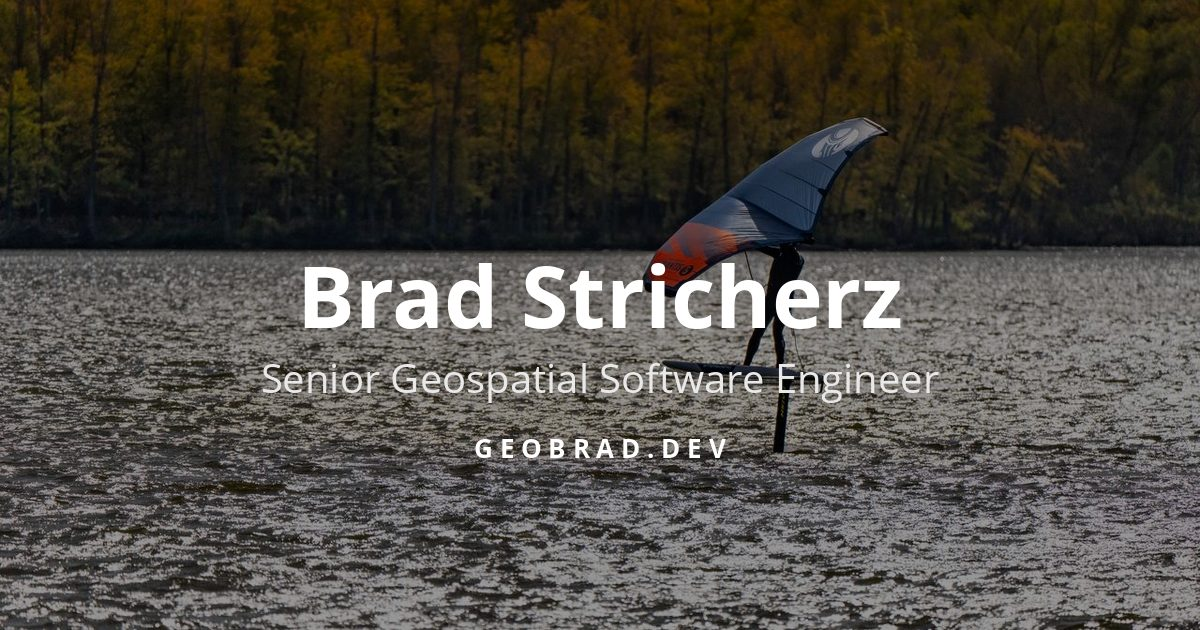
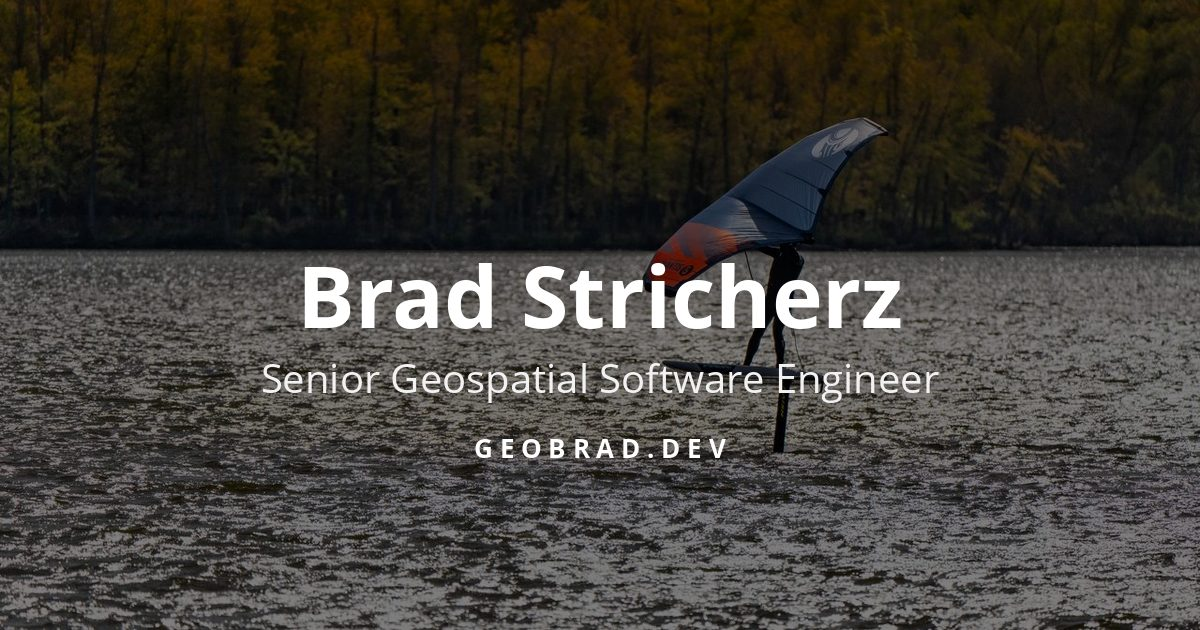
fix: lift hero subtitle and photo credit contrast over the photo (issue 34)
The scrim goes from 0.4 to 0.5, the subtitle from #bfbfbf to #f2f2f2, and
the credit becomes #fff on its own rgba(0, 0, 0, 0.55) backing with an
underlined link and no paragraph margin. Against a white photo pixel, the
worst case any photo can hold, the subtitle is 3.53:1 (needs 3:1) and the
credit 11.37:1 (needs 4.5:1). The share card mirrors the new scrim and
subtitle fill: img/og-card.jpg written: 1200x630, 161.4 KB.

Claude-Session: https://claude.ai/code/session_01AELE7hM1gFfPKqT9ASV4ck

diff --git a/css/style.css b/css/style.css
@@ -759,7 +759,7 @@ Home
    The prefixed -webkit-image-set() form is deliberately not used. It cannot express
    a format fallback, so Safari 6 to 13, which support the prefixed function but not
    WebP, would resolve it to a file they cannot decode and paint no hero at all,
-   only the 40 percent scrim from .home-1:after. Serving those browsers a slightly
+   only the 50 percent scrim from .home-1:after. Serving those browsers a slightly
    soft 1280 JPEG is the better failure.
 
    Variants are keyed to viewport width, not device pixel ratio. A 3x phone is still
@@ -782,6 +782,10 @@ Home
     }
 }
 
+/* The scrim is load-bearing for the hero text, not only mood. The subtitle and the
+   photo credit are held to their WCAG thresholds against a white photo pixel under
+   this layer, and tools/verify_seo_a11y.py computes that from the alpha here, so
+   lightening it fails the gate. tools/make_og_card.py mirrors the same alpha. */
 .home-1:after {
     content: "";
     position: absolute;
@@ -789,7 +793,7 @@ Home
     height: 100%;
     top: 0;
     left: 0;
-    background-color: rgba(0, 0, 0, 0.4);
+    background-color: rgba(0, 0, 0, 0.5);
     z-index: 0;
 }
 
@@ -863,7 +867,7 @@ Home
 #home .typer-title {
     margin: 10px 0;
     font-size: 22px;
-    color: #bfbfbf;
+    color: #f2f2f2;
     text-transform: uppercase;
 }
 
@@ -1775,14 +1779,29 @@ Footer
     pointer-events: auto;
 }
 
+/* The credit carries its own backing because it is normal-size text on the photo,
+   and the scrim alone cannot lift it to 4.5:1 over a bright pixel. Only the top
+   corners round: the box sits flush on the hero's bottom edge. */
 #credit {
     position: absolute;
     bottom: 0;
     right: 10px;
     font-size: 16px;
-    font-weight: 1000;
-    color: #070606;
+    color: #fff;
+    background: rgba(0, 0, 0, 0.55);
+    padding: 2px 8px;
+    border-radius: 3px 3px 0 0;
     z-index: 10;
+}
+
+/* Without this the global paragraph margin hangs dead dark space under the line. */
+#credit p {
+    margin: 0;
+}
+
+/* The link shares the credit's color, so the underline is what tells it apart. */
+#credit a {
+    text-decoration: underline;
 }
 
 /*----------------------------------------

diff --git a/tools/make_og_card.py b/tools/make_og_card.py
@@ -10,7 +10,7 @@ by hand to regenerate a committed asset. Neither is part of the gate, and
 neither runs on the deployed site.
 
 The card is the hero photo the homepage already serves, cropped to the 1.91:1
-that every unfurler expects, under the same rgba(0, 0, 0, 0.4) scrim that
+that every unfurler expects, under the same rgba(0, 0, 0, 0.5) scrim that
 css/style.css paints over the hero in .home-1:after, with the same two lines
 of copy the hero carries. A shared link then previews as the top of the site
 rather than as something assembled separately that can drift away from it.
@@ -33,7 +33,7 @@ SOURCE = ROOT / "img" / "hero-1280.jpg"
 TARGET = ROOT / "img" / "og-card.jpg"
 
 WIDTH, HEIGHT = 1200, 630
-SCRIM = 0.4
+SCRIM = 0.5
 BUDGET = 200 * 1024
 
 # The page sets Lato, which is fetched from Google Fonts and is not on disk
@@ -99,7 +99,7 @@ def main():
 
     lines = [
         ("Brad Stricherz", name_font, (255, 255, 255), 236),
-        ("Senior Geospatial Software Engineer", role_font, (233, 233, 233), 350),
+        ("Senior Geospatial Software Engineer", role_font, (242, 242, 242), 350),
         ("GEOBRAD.DEV", host_font, (255, 255, 255), 430),
     ]
     for text, font, fill, top in lines:
